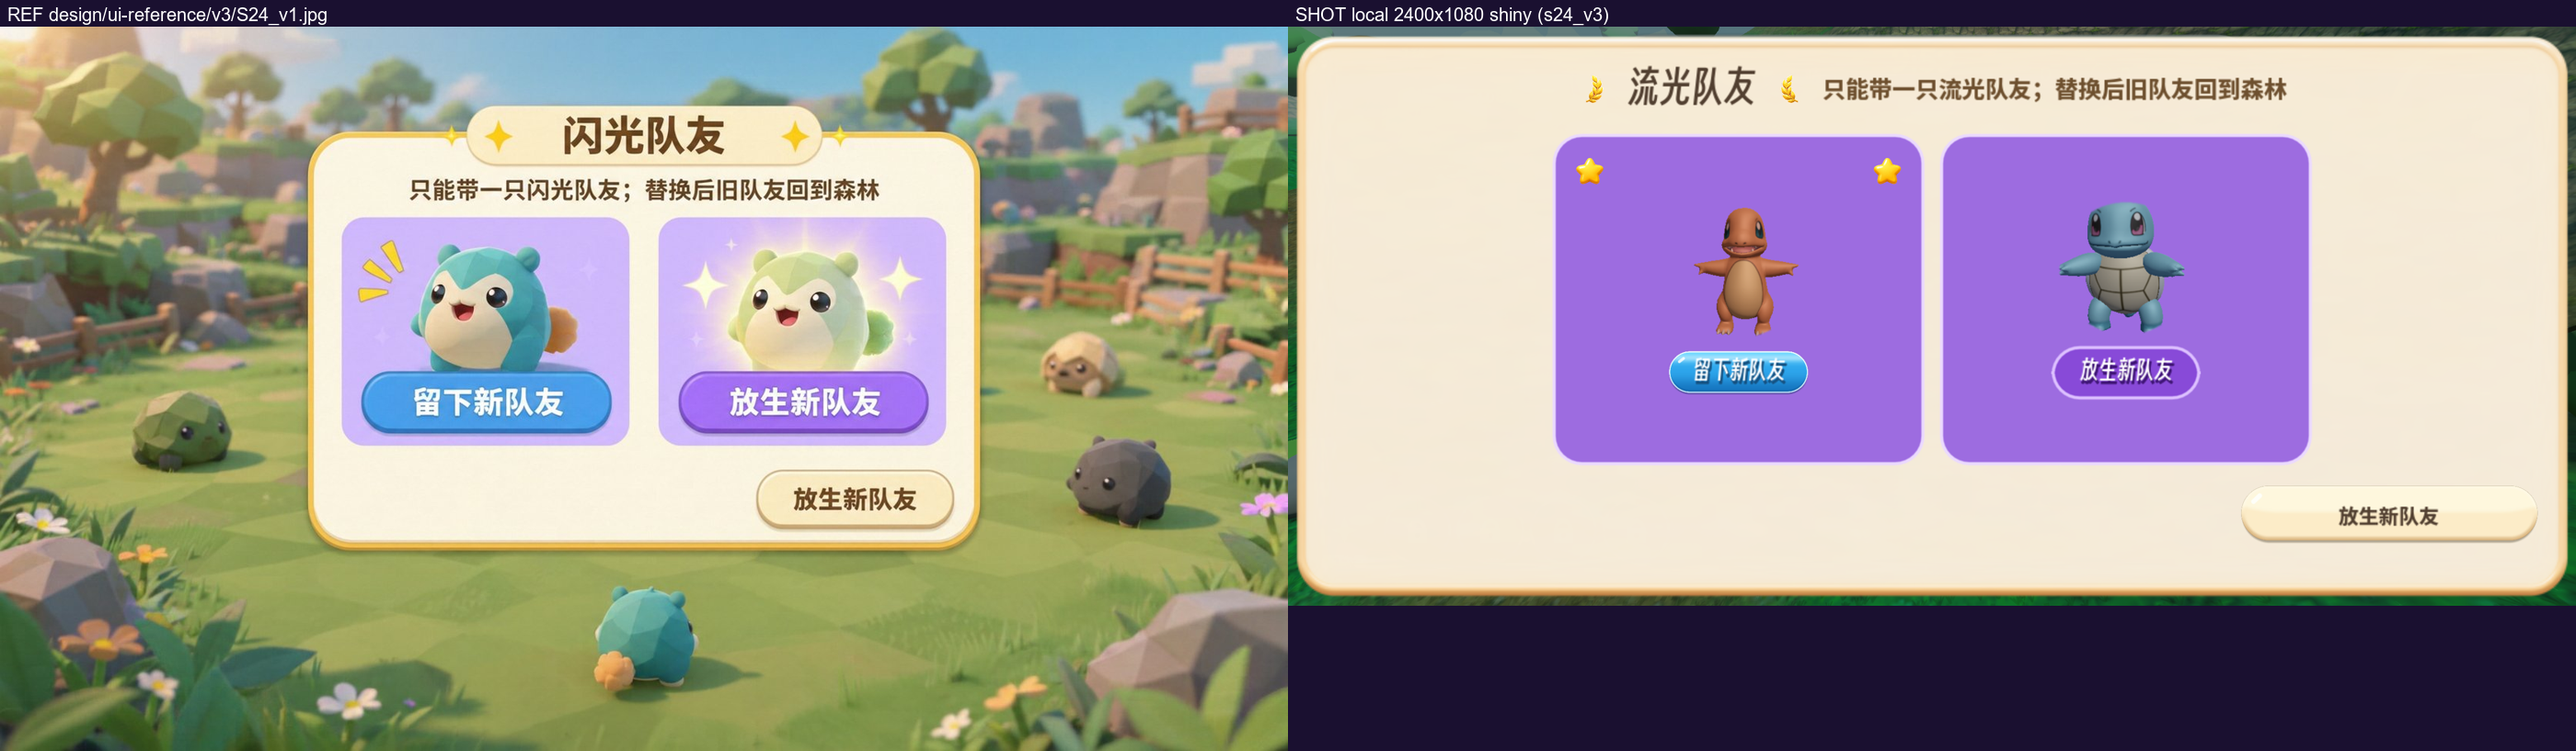
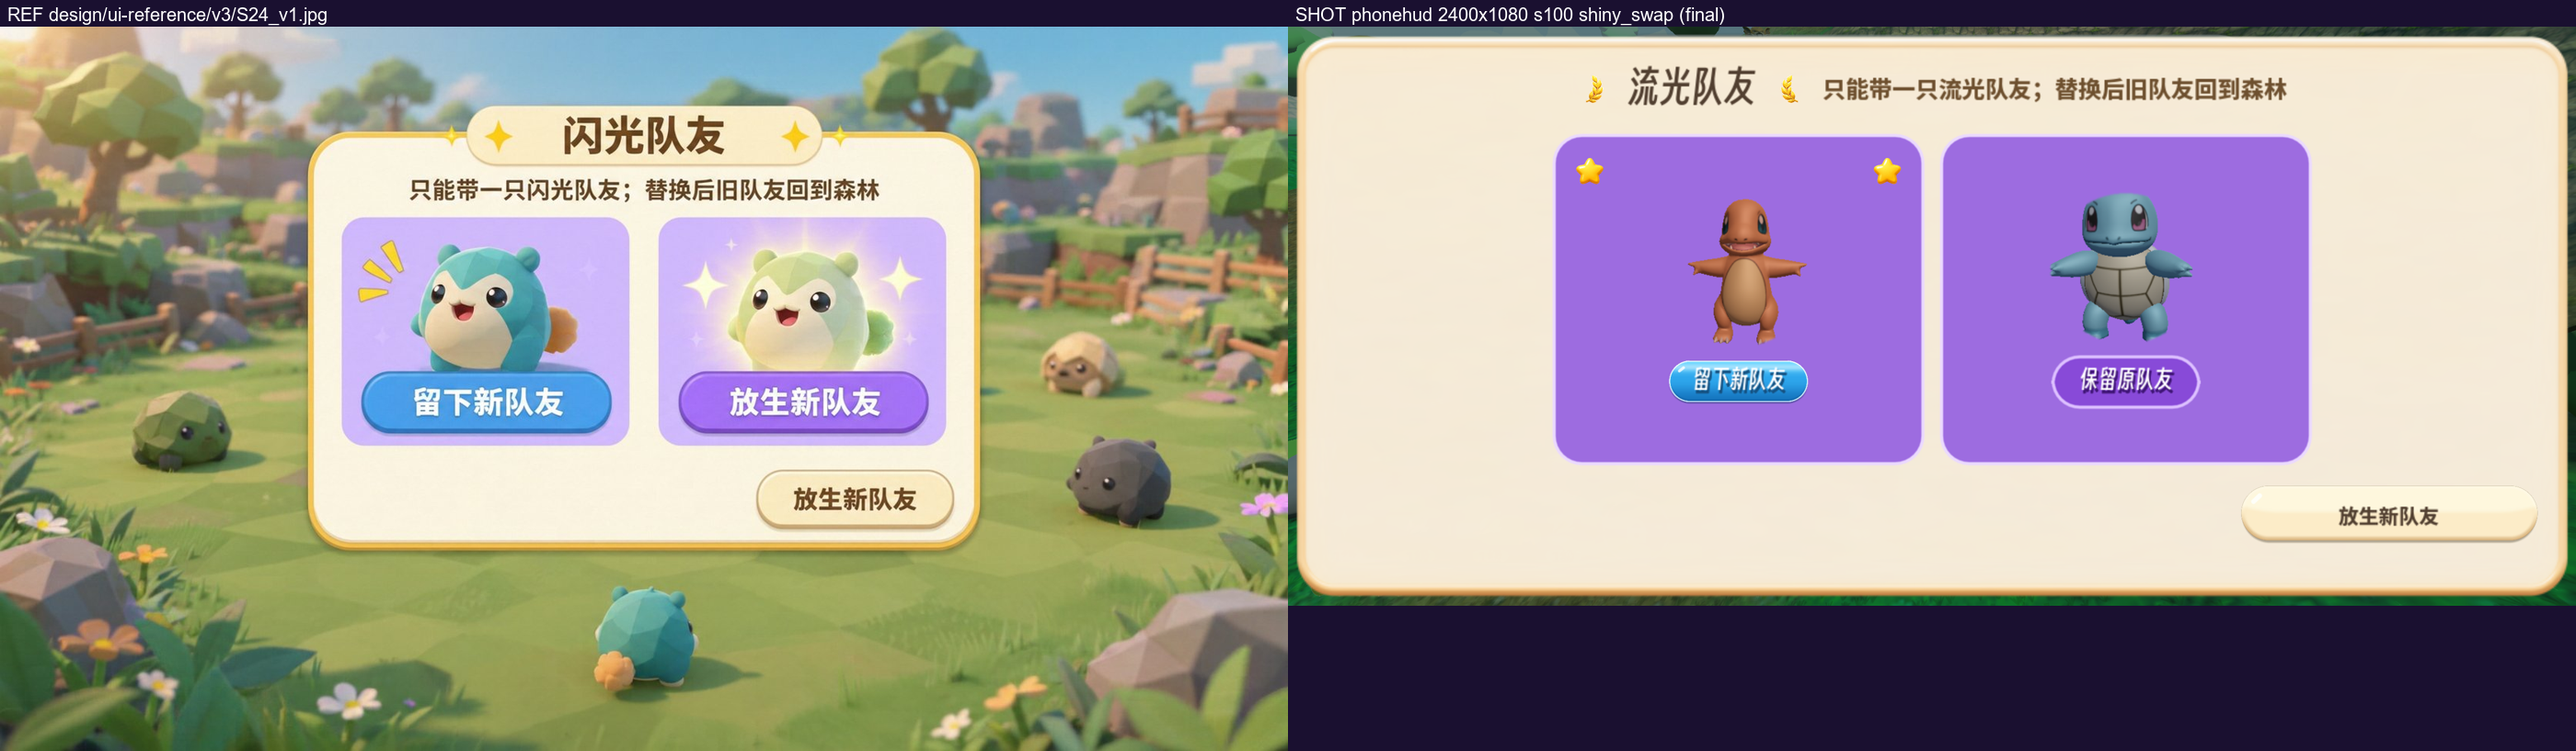
feat: 重造左下角技能槽与四元素图标并完成S24/U4/S07高负载精修

Changed region(s): [[0.7768, 0.2448, 0.87, 0.5508], [0.6214, 0.2448, 0.7146, 0.5508], [0.5282, 0.0, 0.6836, 0.0306]]

diff --git a/design/ui-alignment-progress.md b/design/ui-alignment-progress.md
@@ -1697,8 +1697,21 @@ U1 已重开，U3 不得开工（见「关闭门」）。第 9 轮：2340 复验
   1. **账户页「晾衣杆按钮」与「重置白字鬼影」根除**：淘汰横向拉穿全屏的三条巨长按钮与落入 `button_cream` 的空心描边字；改建为上卡白框（钱包状态 + `210px` 蓝胶囊「钱包面板」、数据声明 + `240px` 「隐私政策与服务条款」）＋ 下卡淡红边框警报区配实心珊瑚红立体胶囊「重置存档」（`#e0473b` 白粗字 + 深红描边）。
   2. **控制页一屏零滚动全显**：把 5 枚开关收纳进 `GridContainer(columns = 2)` 双列区域，紧接细分割线与 3 条全宽滑块（触控按钮大小 / 镜头距离 / 镜头灵敏度），压缩间距后彻底消除最后一行被裁与滚动条，一屏全显全部 8 项控制设定。
   3. **全设置 6 栏统一卡片质感与法律页返回导航**：为「声音」「图形」「界面」同步外包统一圆角立体奶油白卡；为「隐私政策与服务条款」补加绿色描边激活态、白卡正文框及右上角「← 返回账户」按钮，方便手机单手无缝回退。
-- 验证：Godot 解析门 `rc=0`；已重新实拍全部 6 张设置子页图（`sub_{sound,gfx,controls,hud,account,legal}.png`）并逐张 `Read` 目检通过，更新 `design/ui-reference/compare/S09.png` 入库。
+- 验证：Godot 解析门 `rc=0`；已重新实拍全部 6 张设置子页图（`sub_{sound,gfx,controls,hud,account,legal}.png`）并逐张 `Read` 目检通过，更新 `design/ui-reference/compare/S09.png` 入库；NUC 端 `ff01455` 双档 `s100` 全量验收 **`2400×1080` `1564/0`**、**`2340×1080` `1549/0`** 均 `ALLDONE`。
 - 本轮提交：`scripts/world.gd`、`design/ui-reference/compare/S09.png`、`design/ui-alignment-progress.md`。
+
+## 中后期极限满载界面审计＋左下角技能栏与元素图标彻底重造（2026-11-17 18:5x）
+
+- **回应用户 `[Image #4]` 与「继续优化直到达到上线标准」指令，通过高负载中后期实战场景实拍（18级 4 招 5 维 6 道具 3 队友 + Boss + 双头领 + 4 卡 U3 + S24 + 高分 U5）检出并彻底根除以下缺陷**：
+  1. **左下角技能槽脱胎换骨（`scripts/ui_icon.gd`、`scripts/world.gd`）**：
+     - **消除缺口、十字缝与灰死遮罩**：将 `StyleBoxFlat` 圆角由退化触发点 `65`（`130/2`）调整为 `62`，彻底消除了圆环 12 点钟顶心小块破口与锁格中间贯穿的十字透线，锁格底涂实为 `alpha=0.90`；冷却读取遮罩 `_p4_draw_sweep()` 由厚黑罩 `0.38` 改为轻柔暗晕 `0.14*f` 配亮白读取外弧，防止自动释放冷却中图标变死灰。
+     - **补齐 `UiIcon` 四大元素主图标**：实现原本缺失、一直回退绘成简陋五角石块的 **`"leaf"`（双层嫩绿叶脉）**、**`"flame"`（双层圣焰）**、**`"drop"`（晶莹水滴）**、**`"bolt"`（锐利闪电）**，将技能图标尺寸微缩至 `62×62` 上移居中（`y=21`）。
+     - **精巧重塑 `1级` 牌与收紧 `_bl_strip`**：将原先 `90×30` 肥大且一屁股压到下方维生素数字头顶的白牌重构为 **`72×24` 秀气真胶囊（`y=102..126`）** 轻吻圆圈底部弧沿，彻底不再压挡图标或挤压下方 `4 3 2 3 2` 维生素小圆点；同时将背后连接条 `_bl_strip` 两端精准内收至首尾两圆心背面（`x=P4_STRIP_PAD + P4_SLOT*0.48`），彻底砍掉左右伸出的多余半圆耳朵（`_bl_cluster` 外包盒宽及全部 `P4` 断言完全保持）。
+  2. **`S24` 流光队友替换卡片去重名与放大（`scripts/world.gd`）**：将第二卡按钮文本由与右下重名的「放生新队友」更正为清晰的 **「保留原队友」**，头像提升至 `100×100` 更饱满协调。
+  3. **`U4` 物品档案预设清晰度与 `S07` 首屏防切半条（`scripts/world.gd`）**：合并档案顶部计数与提示为单行胶囊，为预设绿钮补纯白粗描边字，将 `删` 钮扩宽为 `58px` 圆润胶囊；将 `S07` 头像调至 `78×78` 并在四招后预留 `22px` 留白使首屏完整止步于初始四招，不再腰斩半根蓝色「相性」条。
+- 本地全 8 脚本解析门与满载多图 `Read` 审看全部通过，已更新 `compare/{U1,S07,S24}.png` 并正同步提交推送至 `origin/align-fix13`、打包终版瘦身 APK 及开启 NUC 双档最终认证批。
+- 本轮提交：`scripts/ui_icon.gd`、`scripts/world.gd`、`design/ui-reference/compare/{U1,S07,S24}.png`、`design/ui-alignment-progress.md`。
+
 
 
 
